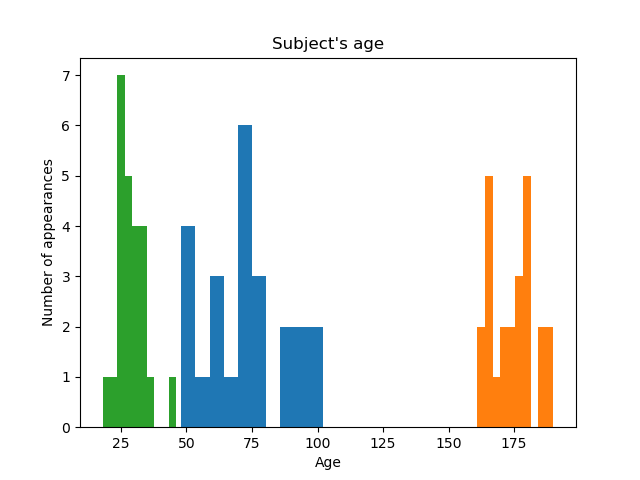
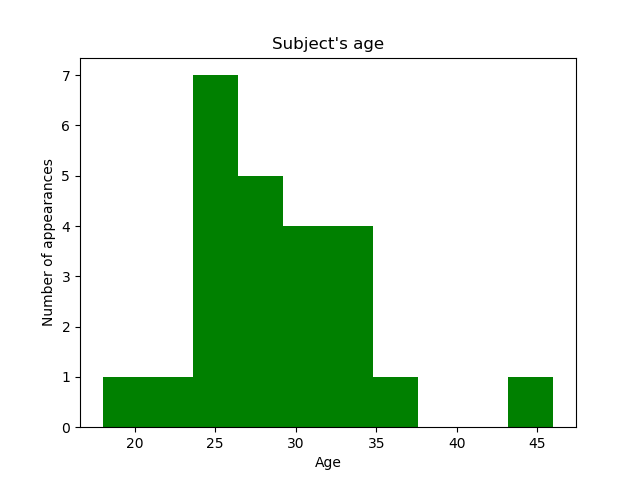
Plot fix

Changed region(s): [[0.1562, 0.1562, 0.6562, 0.9375], [0.7188, 0.3438, 0.875, 0.9375], [0.6875, 0.9062, 0.75, 0.9375]]

diff --git a/PythonScript/data_plotting.py b/PythonScript/data_plotting.py
@@ -6,21 +6,25 @@ import matplotlib.pyplot as plt
 
 def plot_subjects_info(path: str, save_to_dir: str, show_plot=False):
     dataframe = pandas.read_csv(path)
+    colors = ["purple", "yellow", "green", "orange"]
+    index = 0
     # print(dataframe)
     for column in dataframe.columns:
         if "code" in column:
             continue
         title = "Subject's " + column
         if "gender" in column:
-            plt.hist(dataframe[column].replace([1, 0], ["Male", "Female"]))
+            plt.hist(dataframe[column].replace([1, 0], ["Male", "Female"]), color=colors[index % 4])
         else:
-            plt.hist(dataframe[column])
+            plt.hist(dataframe[column], color=colors[index % 4])
         plt.title(title)
         plt.ylabel("Number of appearances")
         plt.xlabel(column.title())
         plt.savefig(os.path.join(save_to_dir, title+".png"))
         if show_plot:
             plt.show()
+        plt.close()
+        index += 1
     return
 
 
